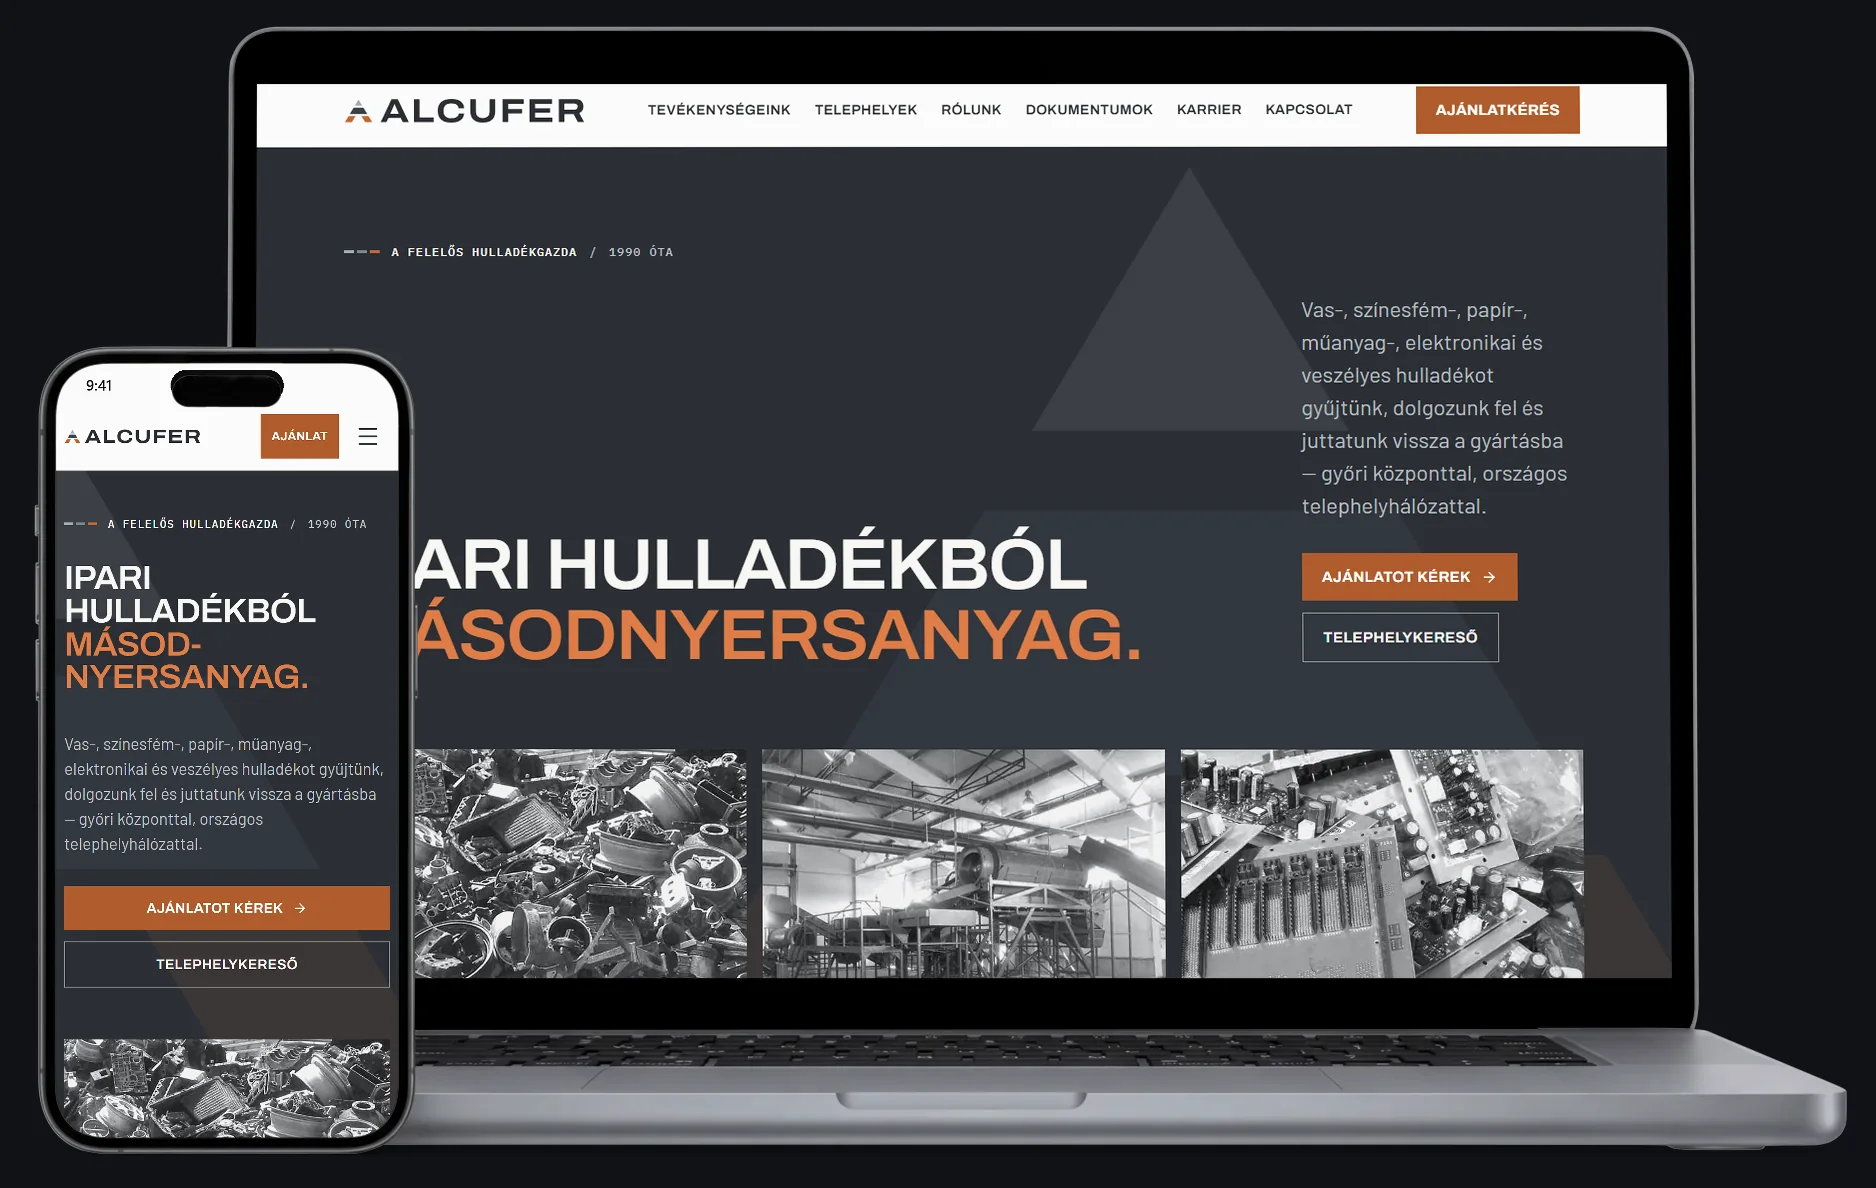
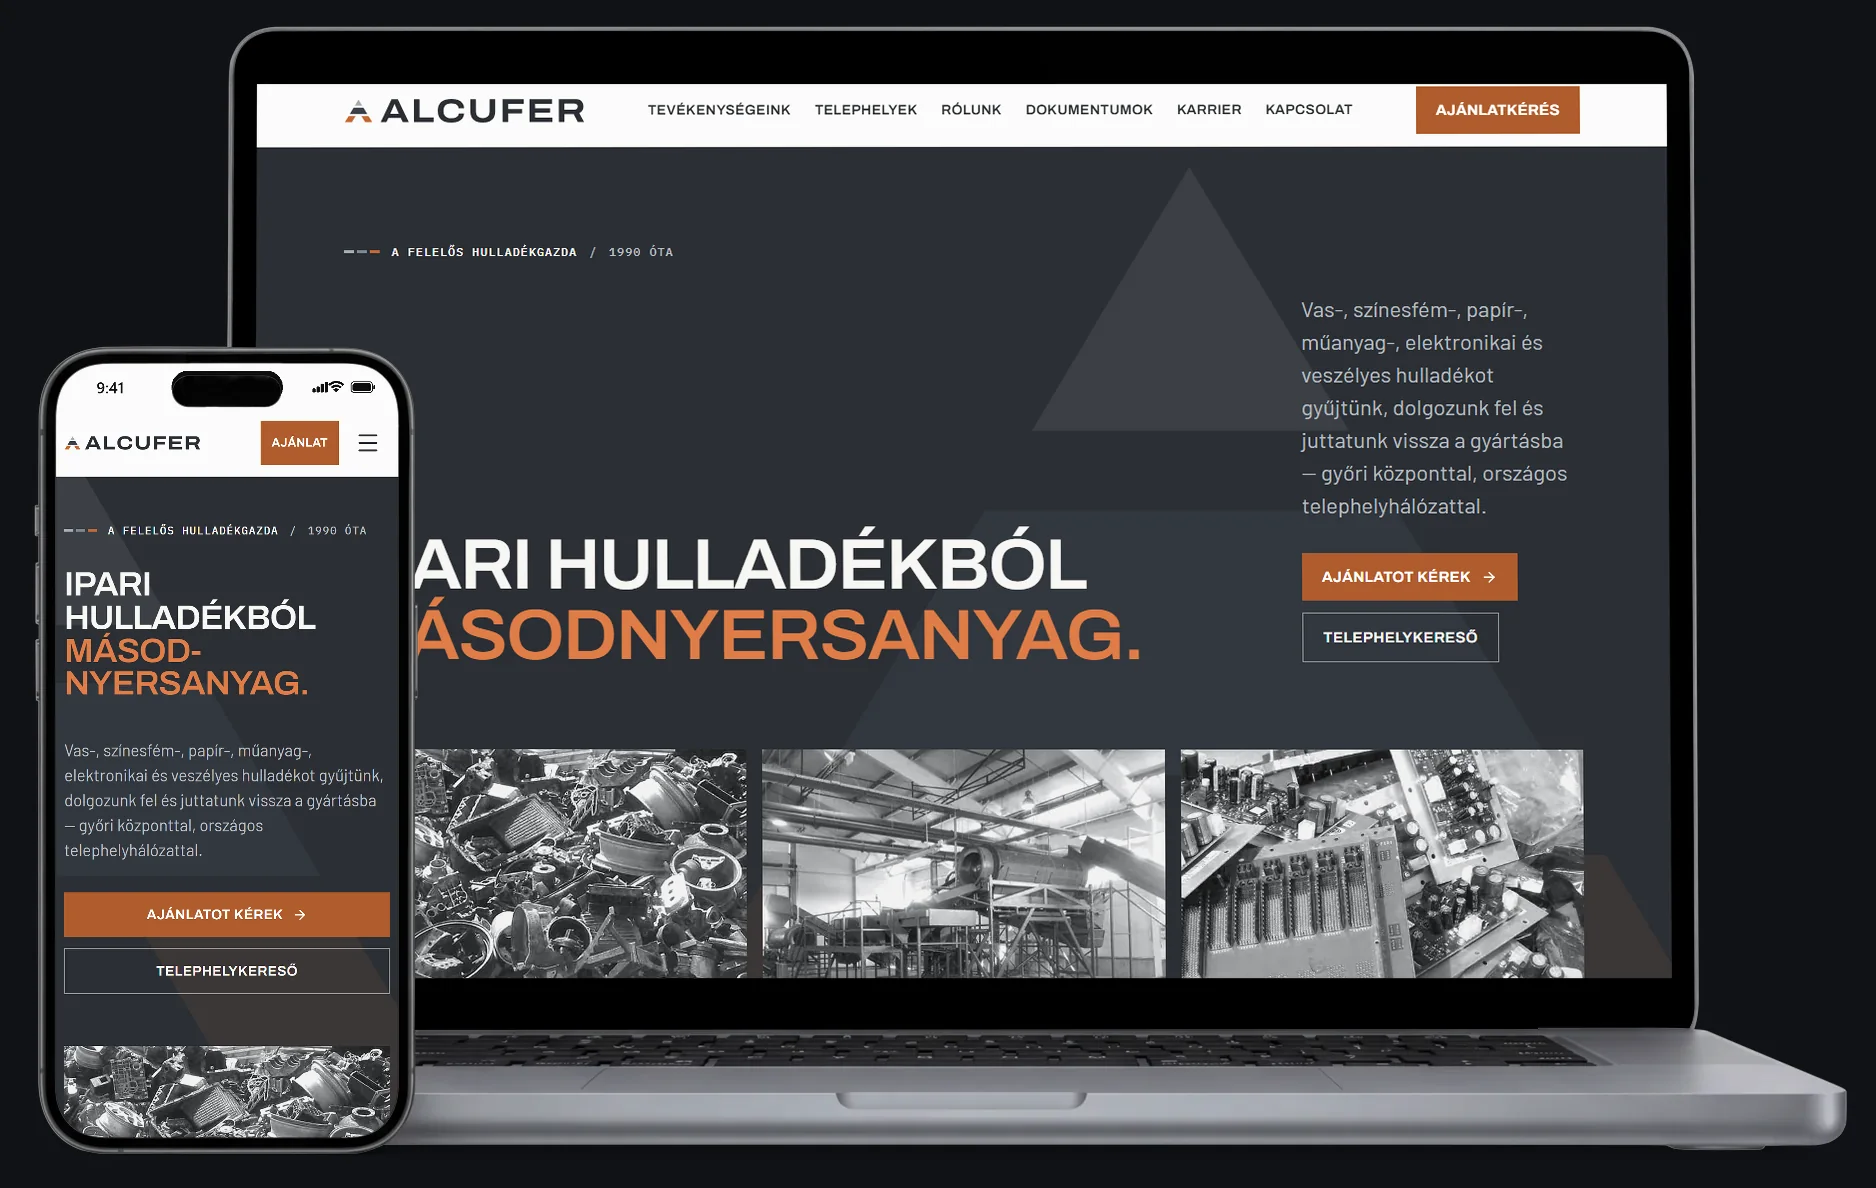
Mockups: iOS status bar, hand-held iPhone on mobile

diff --git a/work.html b/work.html
@@ -181,27 +181,22 @@
   .metals em { font-style: normal; font-variant-numeric: tabular-nums; color: var(--muted); }
   .logo-note { font-size: 12px; color: var(--muted); padding: 2px 4px 4px; }
   .scene { margin: 0 -2%; }
-  .sc-box { --cw: 1876; position: relative; aspect-ratio: 1876 / 1188; overflow: hidden; }
-  .sc-in { position: absolute; top: 0; left: 0; transform-origin: 0 0; transform: scale(var(--s, 0.5)) translateY(var(--cy, 0px)); }
+  .sc-box { position: relative; overflow: hidden; }
+  .sc-in { position: absolute; top: 0; left: 0; transform-origin: 0 0; transform: scale(var(--s, 0.5)); }
   .sc-base, .sc-fx, .sc-mask { position: absolute; inset: 0; width: 100%; height: 100%; }
   .sc-fx { pointer-events: none; }
   .sc-mask { -webkit-mask-size: 100% 100%; mask-size: 100% 100%; -webkit-mask-repeat: no-repeat; mask-repeat: no-repeat; }
   .sc-scr { position: absolute; top: 0; left: 0; transform-origin: 0 0; overflow: hidden; background: #000; }
   .sc-scr > img, .sc-vw > img, .sc-scr iframe { position: absolute; top: 0; left: 0; }
   .sc-scr iframe { border: 0; color-scheme: light dark; pointer-events: none; }
-  .sc-bar { position: absolute; top: 0; left: 0; right: 0; height: 47px; background: rgb(19, 37, 61); color: #fff; font: 600 16px/1 system-ui, sans-serif; }
-  .sc-bar span { position: absolute; left: 40px; top: 17px; }
-  .sc-bar i { position: absolute; left: 133px; top: 11px; width: 124px; height: 34px; border-radius: 18px; background: #000; }
-  .sc-vw { position: absolute; top: 47px; left: 0; width: 390px; height: 800px; overflow: hidden; }
-  /* Mobilon a jelenet telefonra közelített kivágása (x 0–640, y 330–1188 a 1876×1188-as jelenetből):
-     a telefon a képernyő ~60%-át kapja, a laptop jobbra kifut */
+  .sc-bar { position: absolute; top: 0; left: 0; right: 0; height: 54px; background: rgb(19, 37, 61); color: #fff; }
+  .sc-bar span { position: absolute; left: 0; top: 12px; width: 134px; height: 35px; display: flex; align-items: center; justify-content: center; font: 600 17px/1 system-ui, sans-serif; }
+  .sc-bar i { position: absolute; left: 134px; top: 12px; width: 122px; height: 35px; border-radius: 17.5px; background: #000; }
+  .sc-ico { position: absolute; left: 289px; top: 22.5px; width: 68px; height: 14px; fill: currentColor; }
+  .sc-vw { position: absolute; top: 54px; left: 0; right: 0; bottom: 0; overflow: hidden; }
+  .kez { display: none; }
   @media (max-width: 700px) {
-    .duo, .scene { margin-left: -24px; margin-right: -24px; }
-    .duo { position: relative; aspect-ratio: 640 / 858; overflow: hidden; }
-    .duo img { position: absolute; left: 0; top: -38.46%; width: 293.125%; max-width: none; height: auto; }
-    .sc-box { --cw: 640; aspect-ratio: 640 / 858; }
-    .sc-in { --cy: -330px; }
-    .scene figcaption { padding-left: 24px; padding-right: 24px; }
+    .kez { display: block; margin: 10px -24px 0 -8%; }
   }
   .sr-only { position: absolute; width: 1px; height: 1px; overflow: hidden; clip: rect(0 0 0 0); white-space: nowrap; }
   .scene figcaption { display: flex; align-items: flex-start; justify-content: space-between; gap: 18px; margin-top: 12px; }
@@ -291,6 +286,10 @@
           <img class="duo-l" src="work/kertvellesy-duo-light.webp" width="1876" height="1188" alt="New Kertvéllesy website concept on a MacBook and an iPhone" loading="lazy" />
           <img class="duo-d" src="work/kertvellesy-duo-dark.webp" width="1876" height="1188" alt="" loading="lazy" />
         </figure>
+        <figure class="duo kez">
+          <img class="duo-l" src="work/kertvellesy-kez-light.webp" width="1380" height="1176" alt="New Kertvéllesy website on an iPhone held in hand" loading="lazy" />
+          <img class="duo-d" src="work/kertvellesy-kez-dark.webp" width="1380" height="1176" alt="" loading="lazy" />
+        </figure>
         <div class="shot"><img src="work/kertvellesy-detail.webp" width="1440" height="900" alt="Kertvéllesy concept: the services chapter — design, interiors, project management" loading="lazy" /></div>
       </div>
 
@@ -332,6 +331,10 @@
         <figure class="duo">
           <img class="duo-l" src="work/alcufer-duo-light.webp" width="1876" height="1188" alt="New ALCUFER website concept on a MacBook and an iPhone" loading="lazy" />
           <img class="duo-d" src="work/alcufer-duo-dark.webp" width="1876" height="1188" alt="" loading="lazy" />
+        </figure>
+        <figure class="duo kez">
+          <img class="duo-l" src="work/alcufer-kez-light.webp" width="1380" height="1176" alt="New ALCUFER website on an iPhone held in hand" loading="lazy" />
+          <img class="duo-d" src="work/alcufer-kez-dark.webp" width="1380" height="1176" alt="" loading="lazy" />
         </figure>
         <div class="shot"><img src="work/alcufer-detail.webp" width="1440" height="900" alt="ALCUFER concept: five-step process from waste to secondary raw material" loading="lazy" /></div>
       </div>
@@ -393,7 +396,7 @@
 
       <div class="shots">
         <figure class="scene" id="jxScene">
-          <div class="sc-box">
+          <div class="sc-box" style="aspect-ratio:1876/1188" data-w="1876">
             <div class="sc-in" style="width:1876px;height:1188px">
               <img class="sc-base" src="work/duo-alap.webp" width="1876" height="1188" alt="" />
               <div class="sc-mask" style="-webkit-mask-image:url(work/duo-maszk-laptop.png);mask-image:url(work/duo-maszk-laptop.png)">
@@ -404,7 +407,7 @@
               </div>
               <div class="sc-mask" style="-webkit-mask-image:url(work/duo-maszk-phone.png);mask-image:url(work/duo-maszk-phone.png)">
                 <div class="sc-scr sc-phone" style="width:390px;height:847px;transform:matrix3d(0.90923077,0,0,0,0,0.92486423,0,0,0,0,1,0,49.68,359.64,0,1)">
-                  <div class="sc-bar"><span>9:41</span><i></i></div>
+                  <div class="sc-bar"><span>9:41</span><i></i><svg class="sc-ico" viewBox="0 0 68 14" aria-hidden="true"><rect x="0" y="8.75" width="3" height="4" rx=".8"/><rect x="4.5" y="6.25" width="3" height="6.5" rx=".8"/><rect x="9" y="3.75" width="3" height="9" rx=".8"/><rect x="13.5" y="1.25" width="3" height="11.5" rx=".8"/><path d="M17.5 4.01A12 12 0 0 1 34.5 4.01M20.34 6.84A8 8 0 0 1 31.66 6.84" fill="none" stroke="currentColor" stroke-width="2.3"/><path d="M26 12.5L23.45 9.95A3.6 3.6 0 0 1 28.55 9.95Z"/><rect x="42.55" y="1.05" width="22.9" height="11.9" rx="3.5" fill="none" stroke="currentColor" stroke-width="1.1"/><rect x="44" y="3" width="20" height="8" rx="2"/><rect x="67" y="5" width="1.5" height="4" rx=".7"/></svg></div>
                   <div class="sc-vw">
                     <img src="work/jozsa-phone-screen.webp" width="390" height="800" alt="" />
                     <iframe id="jxIntroM" title="" tabindex="-1" aria-hidden="true" style="width:390px;height:800px"></iframe>
@@ -414,6 +417,23 @@
               <img class="sc-fx" src="work/duo-fx0.webp" alt="" style="mix-blend-mode:multiply" />
               <img class="sc-fx" src="work/duo-fx1.webp" alt="" style="mix-blend-mode:multiply" />
               <img class="sc-fx" src="work/duo-fx2.webp" alt="" style="mix-blend-mode:plus-lighter" />
+            </div>
+          </div>
+          <div class="sc-box kez" style="aspect-ratio:1380/1176" data-w="1380">
+            <div class="sc-in" style="width:1380px;height:1176px">
+              <img class="sc-base" src="work/kez-alap.webp" width="1380" height="1176" alt="" />
+              <div class="sc-mask" style="-webkit-mask-image:url(work/kez-maszk-phone.png);mask-image:url(work/kez-maszk-phone.png)">
+                <div class="sc-scr sc-phone" style="width:390px;height:845px;transform:matrix3d(0.91567686,-0.26174678,0,0.00013446406,0.47071946,0.85234379,0,-6.6927221e-05,0,0,1,0,64.648925,161.8954,0,1)">
+                  <div class="sc-bar"><span>9:41</span><i></i><svg class="sc-ico" viewBox="0 0 68 14" aria-hidden="true"><rect x="0" y="8.75" width="3" height="4" rx=".8"/><rect x="4.5" y="6.25" width="3" height="6.5" rx=".8"/><rect x="9" y="3.75" width="3" height="9" rx=".8"/><rect x="13.5" y="1.25" width="3" height="11.5" rx=".8"/><path d="M17.5 4.01A12 12 0 0 1 34.5 4.01M20.34 6.84A8 8 0 0 1 31.66 6.84" fill="none" stroke="currentColor" stroke-width="2.3"/><path d="M26 12.5L23.45 9.95A3.6 3.6 0 0 1 28.55 9.95Z"/><rect x="42.55" y="1.05" width="22.9" height="11.9" rx="3.5" fill="none" stroke="currentColor" stroke-width="1.1"/><rect x="44" y="3" width="20" height="8" rx="2"/><rect x="67" y="5" width="1.5" height="4" rx=".7"/></svg></div>
+                  <div class="sc-vw">
+                    <img src="work/jozsa-phone-screen.webp" width="390" height="800" alt="" />
+                    <iframe id="jxIntroK" title="" tabindex="-1" aria-hidden="true" style="width:390px;height:800px"></iframe>
+                  </div>
+                </div>
+              </div>
+              <img class="sc-fx" src="work/kez-fx0.webp" alt="" style="mix-blend-mode:multiply" />
+              <img class="sc-fx" src="work/kez-fx1.webp" alt="" style="mix-blend-mode:plus-lighter" />
+              <img class="sc-fx" src="work/kez-fx2.webp" alt="" style="mix-blend-mode:normal;opacity:0.2" />
             </div>
           </div>
           <figcaption>
@@ -479,23 +499,29 @@
   (function () {
     // Józsa logo intro inside the MacBook + iPhone scene — both screens start together and loop
     // while on screen; Pause stops the loop after the current run
-    var box = document.querySelector('#jxScene .sc-box');
-    var inner = document.querySelector('#jxScene .sc-in');
+    var boxes = Array.prototype.map.call(document.querySelectorAll('#jxScene .sc-box'), function (b) {
+      return { box: b, in: b.querySelector('.sc-in'), w: +b.getAttribute('data-w') };
+    });
+    var box = boxes[0].box;
+    var hand = document.getElementById('jxIntroK');
     var desk = document.getElementById('jxIntroD');
     var mob = document.getElementById('jxIntroM');
     var btn = document.getElementById('jxToggle');
-    if (!box || !inner || !desk || !mob || !btn) return;
+    if (!desk || !mob || !hand || !btn) return;
     var PERIOD = 6500, timer = null, visible = false, paused = false;
-    function fit() { inner.style.setProperty('--s', box.clientWidth / (parseFloat(getComputedStyle(box).getPropertyValue('--cw')) || 1876)); }
+    function fit() {
+      boxes.forEach(function (b) { b.in.style.setProperty('--s', b.box.clientWidth / b.w); });
+    }
     function play() {
       clearTimeout(timer);
       var v = '?' + Date.now();
       desk.src = 'work/jozsa-intro.html' + v;
       mob.src = 'work/jozsa-intro-mobil.html' + v;
+      if (hand.offsetParent) hand.src = 'work/jozsa-intro-mobil.html' + v;
       if (!paused) timer = setTimeout(function () { if (visible && !paused) play(); }, PERIOD);
     }
     fit();
-    if ('ResizeObserver' in window) new ResizeObserver(fit).observe(box); else addEventListener('resize', fit);
+    if ('ResizeObserver' in window) { var ro = new ResizeObserver(fit); boxes.forEach(function (b) { ro.observe(b.box); }); } else addEventListener('resize', fit);
     btn.addEventListener('click', function () {
       paused = !paused;
       btn.textContent = paused ? 'Play' : 'Pause';
